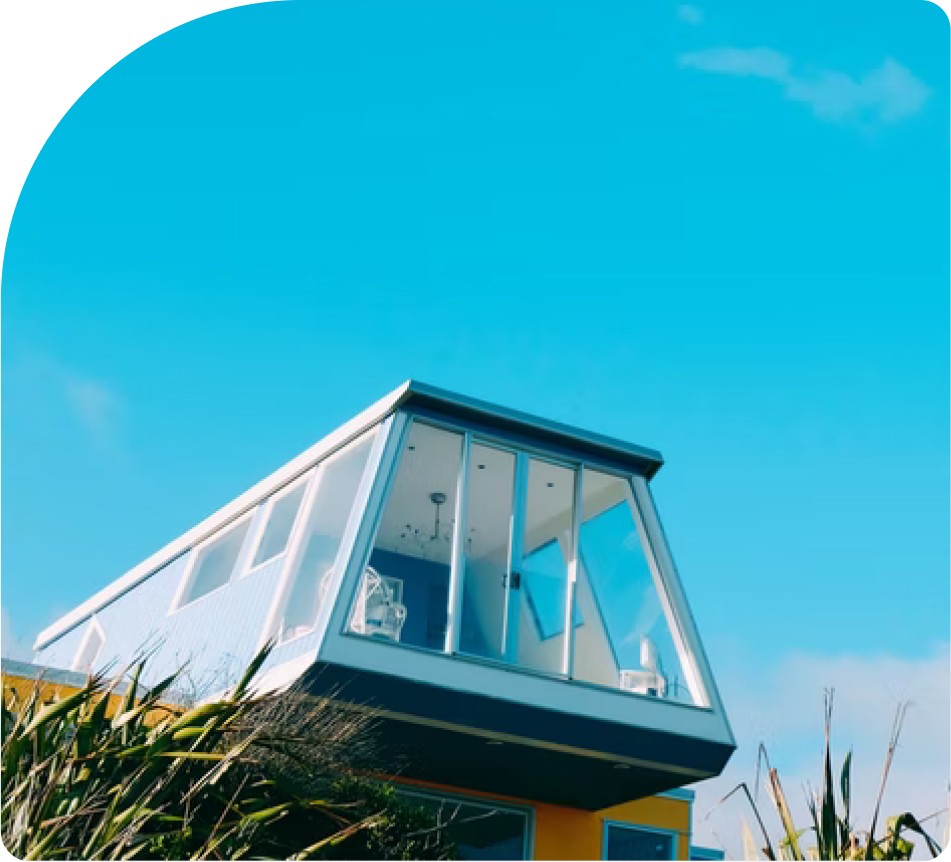
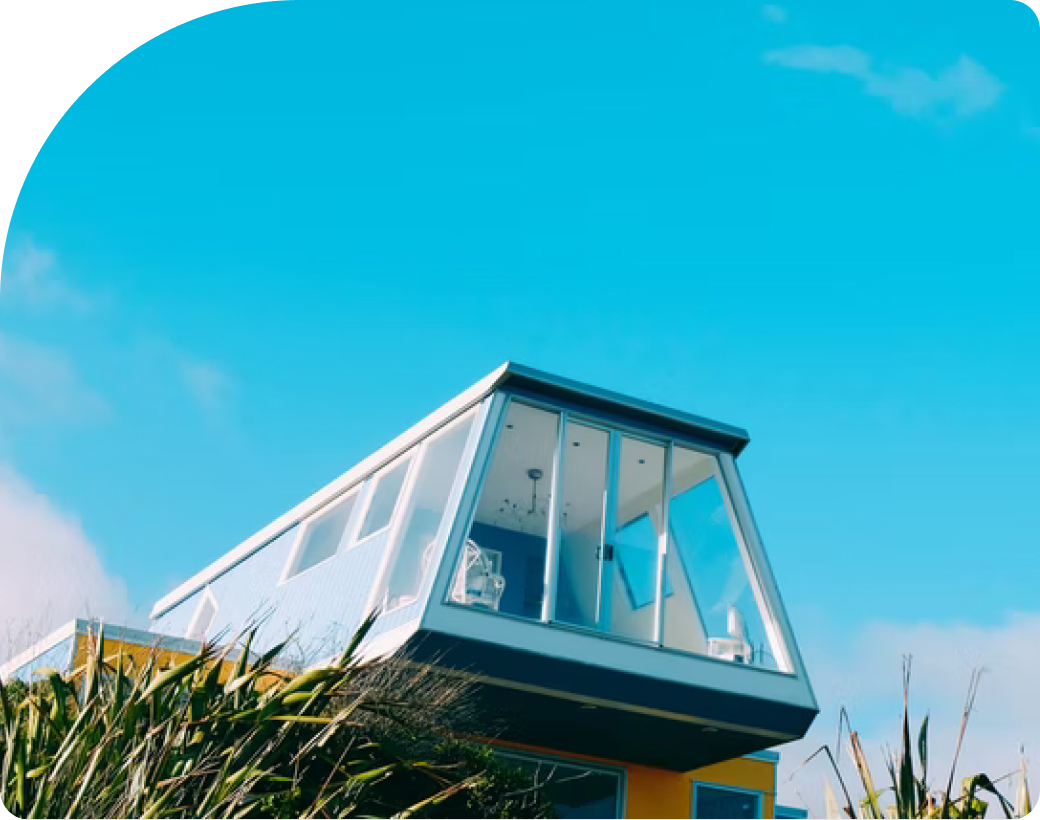
steps-hero-slicing
finish

diff --git a/src/parts/Hero.js b/src/parts/Hero.js
@@ -6,7 +6,7 @@ import IconCities from "assets/images/icons/ic_cities.svg";
 import IconTraveler from "assets/images/icons/ic_traveller.svg";
 import IconTreasure from "assets/images/icons/ic_treasure.svg";
 import Button from "elements/Button";
-
+import FormatNumber from "utils/formatNumber";
 export default function Hero(props) {
   function showMostPicked() {
     window.scrollTo({
@@ -18,15 +18,18 @@ export default function Hero(props) {
   return (
     <section className="container pt-4">
       <div className="row align-items-center">
-        <div className="col-auto pr-5" style={{ width: 555 }}>
+        <div className="col-auto pr-5" style={{ width: 530 }}>
           {/* HERO TEXT */}
-          <h1 className="h2 font-weight-bold line-height-1 mb-3">
+          <h1 className="font-weight-bold line-height-1 mb-3">
             Forget Busy Work, <br />
             Start Next Vacation
           </h1>
           {/* END HERO TEXT */}
           {/* HERO TEXT DESC w-75 (75 percent) */}
-          <p className="mb-5 font-weight-light text-gray-500 w-75">
+          <p
+            className="mb-4 font-weight-light text-gray-500 w-75"
+            style={{ lineHeight: "170%" }}
+          >
             We provide what you need to enjoy your holiday with family, Time to
             make another memorable moments.
           </p>
@@ -42,8 +45,8 @@ export default function Hero(props) {
           </Button>
           {/* END BUTTON SHOW ME */}
           {/* ICONS HERO */}
-          <div className="row mt-5 icons-hero">
-            <div className="col-auto">
+          <div className="row" style={{ marginTop: 80 }}>
+            <div className="col-auto" style={{ marginRight: 35 }}>
               <img
                 width="36"
                 height="36"
@@ -51,13 +54,13 @@ export default function Hero(props) {
                 alt={`${props.data.travelers} Travelers`}
               />
               <h6 className="mt-3">
-                {props.data.travelers}{" "}
+                {FormatNumber(props.data.travelers)}{" "}
                 <span className="text-gray-500 font-weight-light">
                   Travelers
                 </span>
               </h6>
             </div>
-            <div className="col-auto">
+            <div className="col-auto" style={{ marginRight: 35 }}>
               <img
                 width="36"
                 height="36"
@@ -65,7 +68,7 @@ export default function Hero(props) {
                 alt={`${props.data.treasures} Treasures`}
               />
               <h6 className="mt-3">
-                {props.data.treasures}{" "}
+                {FormatNumber(props.data.treasures)}{" "}
                 <span className="text-gray-500 font-weight-light">
                   Treasures
                 </span>
@@ -79,13 +82,31 @@ export default function Hero(props) {
                 alt={`${props.data.cities} Cities`}
               />
               <h6 className="mt-3">
-                {props.data.cities}{" "}
+                {FormatNumber(props.data.cities)}{" "}
                 <span className="text-gray-500 font-weight-light">Cities</span>
               </h6>
             </div>
           </div>
           {/* END ICONS HERO */}
         </div>
+        {/* BIG IMAGE HERO */}
+        <div className="col-6 pl-5">
+          <div style={{ width: 520, height: 410 }}>
+            <img
+              src={ImageHero}
+              alt="Room with couches"
+              className="img-fluid position-absolute"
+              style={{ margin: "-30px 0 0 -30px", zIndex: 1 }}
+            />
+            <img
+              src={ImageHeroFrame}
+              alt="Room with couches frame"
+              className="img-fluid position-absolute"
+              style={{ margin: "0 -15px -15px 0" }}
+            />
+          </div>
+        </div>
+        {/* END BIG IMAGE HERO */}
       </div>
     </section>
   );

diff --git a/src/assets/scss/_buttons.scss b/src/assets/scss/_buttons.scss
@@ -6,6 +6,7 @@
 
 .btn {
   display: inline-block;
+  min-height: 50px;
   font-family: $btn-font-family;
   font-weight: $btn-font-weight;
   color: $body-color;
@@ -16,7 +17,13 @@
   user-select: none;
   background-color: transparent;
   border: $btn-border-width solid transparent;
-  @include button-size($btn-padding-y, $btn-padding-x, $btn-font-size, $btn-line-height, $btn-border-radius);
+  @include button-size(
+    $btn-padding-y,
+    $btn-padding-x,
+    $btn-font-size,
+    $btn-line-height,
+    4px
+  );
   @include transition($btn-transition);
 
   @include hover() {
@@ -45,6 +52,9 @@
       @include box-shadow($btn-focus-box-shadow, $btn-active-box-shadow);
     }
   }
+  &.btn-shadow {
+    box-shadow: 0px 8px 15px rgba($primary, 0.3);
+  }
 }
 
 // Future-proof disabling of clicks on `<a>` elements
@@ -52,7 +62,6 @@ a.btn.disabled,
 fieldset:disabled a.btn {
   pointer-events: none;
 }
-
 
 //
 // Alternate buttons
@@ -69,7 +78,6 @@ fieldset:disabled a.btn {
     @include button-outline-variant($value);
   }
 }
-
 
 //
 // Link buttons
@@ -101,19 +109,29 @@ fieldset:disabled a.btn {
   // No need for an active state here
 }
 
-
 //
 // Button Sizes
 //
 
 .btn-lg {
-  @include button-size($btn-padding-y-lg, $btn-padding-x-lg, $btn-font-size-lg, $btn-line-height-lg, $btn-border-radius-lg);
+  @include button-size(
+    $btn-padding-y-lg,
+    $btn-padding-x-lg,
+    $btn-font-size-lg,
+    $btn-line-height-lg,
+    $btn-border-radius-lg
+  );
 }
 
 .btn-sm {
-  @include button-size($btn-padding-y-sm, $btn-padding-x-sm, $btn-font-size-sm, $btn-line-height-sm, $btn-border-radius-sm);
+  @include button-size(
+    $btn-padding-y-sm,
+    $btn-padding-x-sm,
+    $btn-font-size-sm,
+    $btn-line-height-sm,
+    $btn-border-radius-sm
+  );
 }
-
 
 //
 // Block button

diff --git a/src/assets/scss/_type.scss b/src/assets/scss/_type.scss
@@ -4,8 +4,18 @@
 // Headings
 //
 
-h1, h2, h3, h4, h5, h6,
-.h1, .h2, .h3, .h4, .h5, .h6 {
+h1,
+h2,
+h3,
+h4,
+h5,
+h6,
+.h1,
+.h2,
+.h3,
+.h4,
+.h5,
+.h6 {
   margin-bottom: $headings-margin-bottom;
   font-family: $headings-font-family;
   font-weight: $headings-font-weight;
@@ -13,12 +23,31 @@ h1, h2, h3, h4, h5, h6,
   color: $headings-color;
 }
 
-h1, .h1 { @include font-size($h1-font-size); }
-h2, .h2 { @include font-size($h2-font-size); }
-h3, .h3 { @include font-size($h3-font-size); }
-h4, .h4 { @include font-size($h4-font-size); }
-h5, .h5 { @include font-size($h5-font-size); }
-h6, .h6 { @include font-size($h6-font-size); }
+h1,
+.h1 {
+  @include font-size($h1-font-size);
+  line-height: 63px;
+}
+h2,
+.h2 {
+  @include font-size($h2-font-size);
+}
+h3,
+.h3 {
+  @include font-size($h3-font-size);
+}
+h4,
+.h4 {
+  @include font-size($h4-font-size);
+}
+h5,
+.h5 {
+  @include font-size($h5-font-size);
+}
+h6,
+.h6 {
+  @include font-size($h6-font-size);
+}
 
 .lead {
   @include font-size($lead-font-size);
@@ -47,7 +76,6 @@ h6, .h6 { @include font-size($h6-font-size); }
   line-height: $display-line-height;
 }
 
-
 //
 // Horizontal rules
 //
@@ -58,7 +86,6 @@ hr {
   border: 0;
   border-top: $hr-border-width solid $hr-border-color;
 }
-
 
 //
 // Emphasis
@@ -75,7 +102,6 @@ mark,
   padding: $mark-padding;
   background-color: $mark-bg;
 }
-
 
 //
 // Lists
@@ -96,7 +122,6 @@ mark,
     margin-right: $list-inline-padding;
   }
 }
-
 
 //
 // Misc

diff --git a/src/assets/scss/_variables.scss b/src/assets/scss/_variables.scss
@@ -269,9 +269,7 @@ $embed-responsive-aspect-ratios: join(
 // Font, line-height, and color for body text, headings, and more.
 
 // stylelint-disable value-keyword-case
-$font-family-sans-serif: -apple-system, BlinkMacSystemFont, "Segoe UI", Roboto,
-  "Helvetica Neue", Arial, "Noto Sans", sans-serif, "Apple Color Emoji",
-  "Segoe UI Emoji", "Segoe UI Symbol", "Noto Color Emoji" !default;
+$font-family-sans-serif: "Poppins", sans-serif !default;
 $font-family-monospace: SFMono-Regular, Menlo, Monaco, Consolas,
   "Liberation Mono", "Courier New", monospace !default;
 $font-family-base: $font-family-sans-serif !default;
@@ -290,7 +288,7 @@ $font-weight-bolder: bolder !default;
 $font-weight-base: $font-weight-normal !default;
 $line-height-base: 1.5 !default;
 
-$h1-font-size: $font-size-base * 2.5 !default;
+$h1-font-size: $font-size-base * 2.625 !default;
 $h2-font-size: $font-size-base * 2 !default;
 $h3-font-size: $font-size-base * 1.75 !default;
 $h4-font-size: $font-size-base * 1.5 !default;

diff --git a/src/parts/Header.js b/src/parts/Header.js
@@ -12,7 +12,7 @@ export default function Header(props) {
   return (
     <header className="spacing-sm">
       <div className="container">
-        <nav className="navbar navbar-expand-lg navbar-light">
+        <nav className="navbar navbar-expand-lg navbar-light pl-0">
           <BrandIcon />
           <div className="collapse navbar-collapse">
             <ul className="navbar-nav ml-auto">

diff --git a/src/assets/scss/style.scss b/src/assets/scss/style.scss
@@ -48,18 +48,6 @@
    License: none (public domain)
 */
 
-/*
-  SETTINGS RESET
-*/
-
-* {
-  font-family: "Poppins", sans-serif;
-}
-
-/*
-  CUSTOMIZE STYLES
-*/
-
 .brand-text-icon {
   font-style: normal;
   font-size: 26px;
@@ -73,6 +61,7 @@
 }
 
 header {
+  margin-bottom: 50px;
   font-family: "Poppins", sans-serif;
   border-bottom: 1px solid $gray-200;
   width: 100%;

diff --git a/src/pages/LandingPage.js b/src/pages/LandingPage.js
@@ -6,7 +6,6 @@ import Hero from "parts/Hero";
 // export with extends to component
 export default class LandingPage extends Component {
   render() {
-    // console.log(this.props);
     return (
       <>
         {/* ... : syntax es6, Kalo ada props dari kelas ini akan di masukan juga ke dalam Header class*/}

diff --git a/src/utils/formatNumber.js b/src/utils/formatNumber.js
@@ -1,0 +1,6 @@
+export default (number) => {
+  //   format number pake internationalization browser api (bawaan browser)
+  // atau paake react number format
+  const formatNumbering = new Intl.NumberFormat("id-ID");
+  return formatNumbering.format(number);
+};
